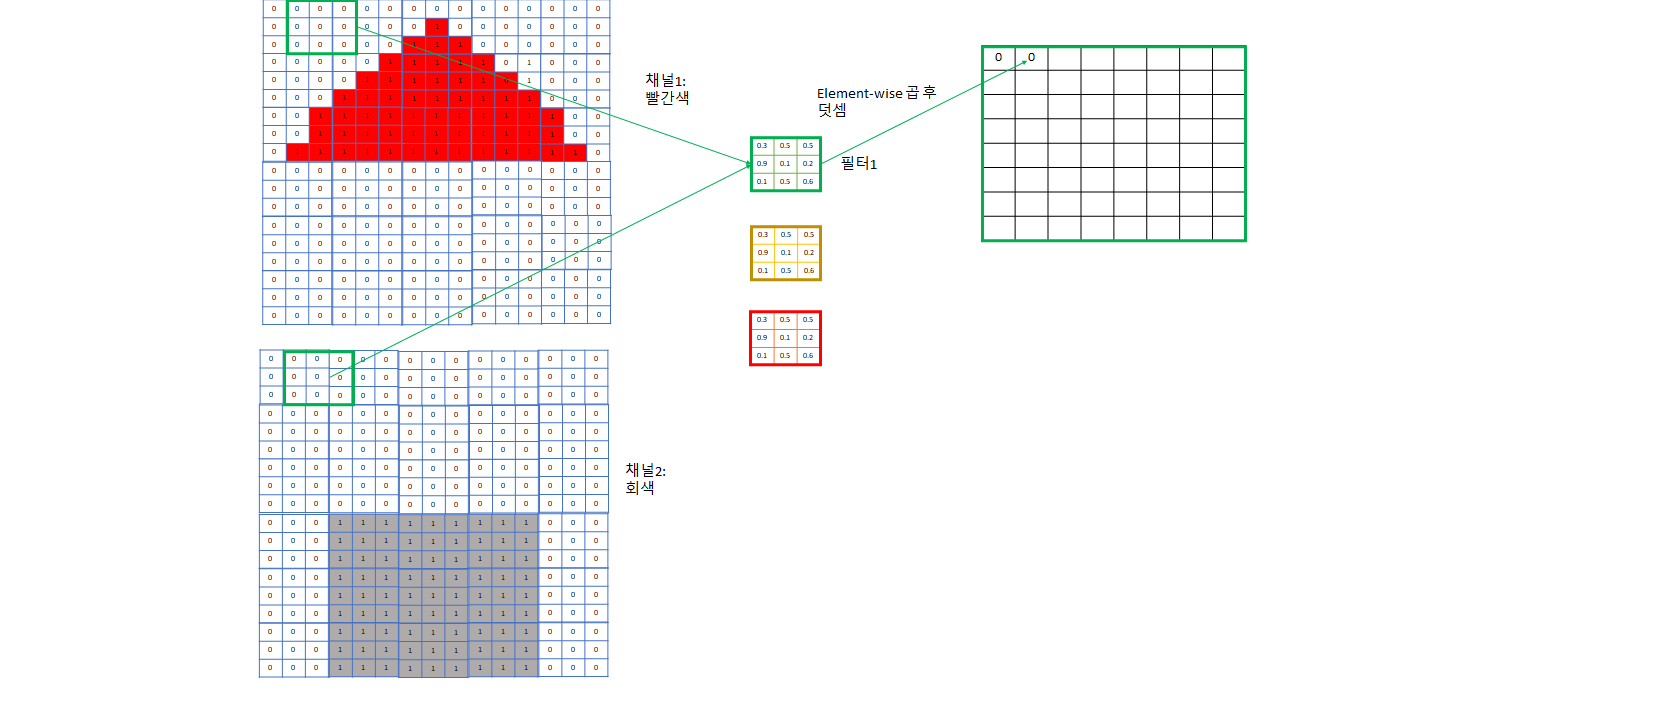
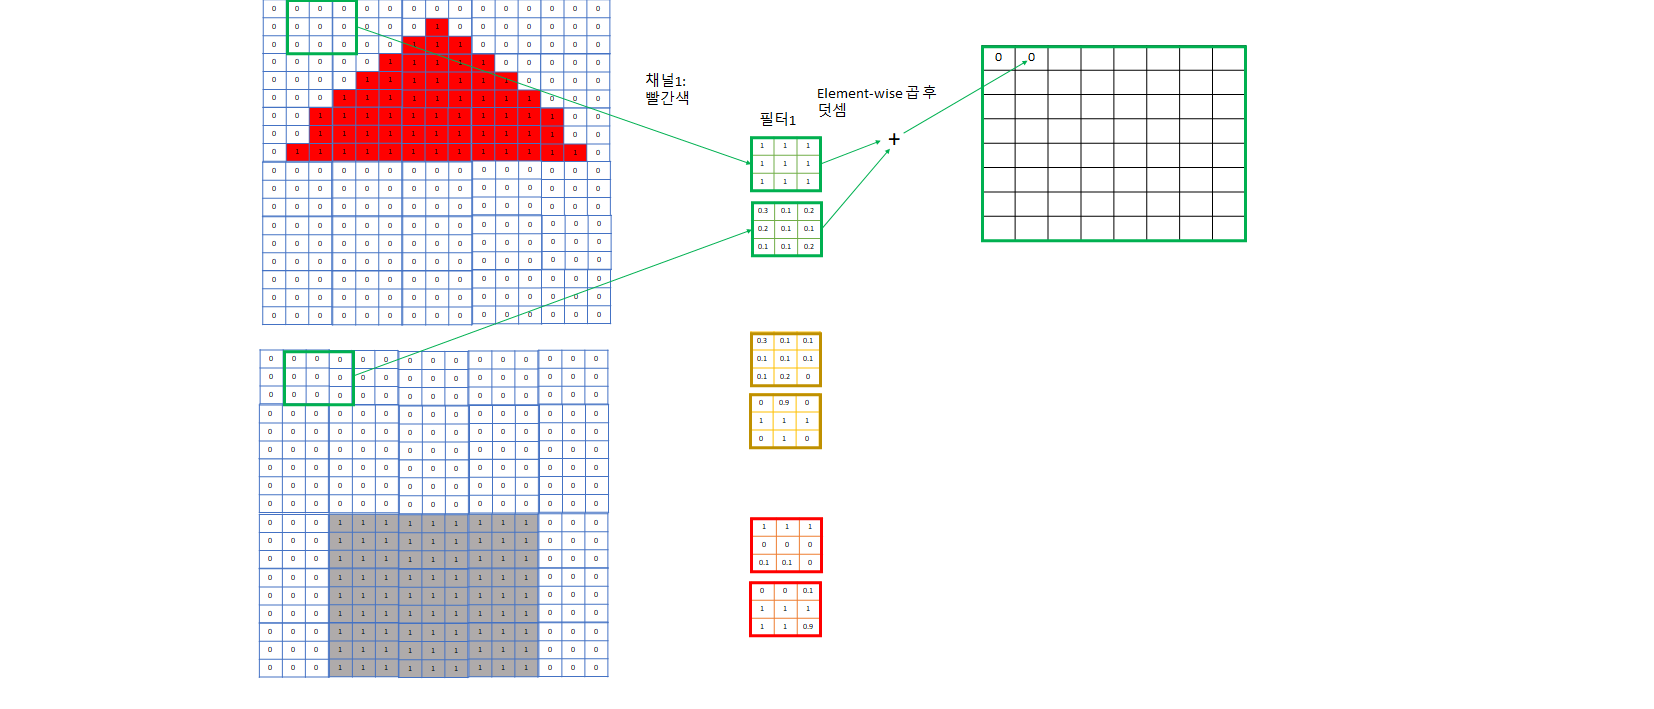
fixed practical cnn

diff --git a/personal_study/practicalcnn.md b/personal_study/practicalcnn.md
@@ -25,7 +25,14 @@ sort: 4
 
 ## 3. CNN의 기본
 1) 작동 방식:
-
+   * 컴퓨터가 인식하기 쉽게 **image는 한 개로 오지 않고 이를 컴퓨터가 인식하기 쉽게 어떤 특성을 기준으로 나눈 여러 개의 channel로 주어진다.**
+      * ex) RGB: R, G, B하나당 채널 한 개씩. 흑백같은 간단한 사진이면 한 개의 channel을 주기도 한다.
+      * 아래 예제에서는 그림의 간략화를 위해 빨간색 채널, 회색 채널로만 정리했고 파란색 문도 생략했다.
+   * 눈에 대응되는 부분이 아래 그림의 "필터"들로, 각 channel에 대해 다른 weight를 가지고 있고 이 weight들은 학습된다. 이들 또한 input image를 어떤 특정한 기준으로 filtering하여 각 필터는 자신이 정한 특성에 대한 값들을 추출하려 노력한다.
+      * 예제의 1번 필터는 빨간색 채널용 필터가 전부 1이므로 **3*3 빨간색 정사각형 특성을 찾는데 특화된 필터다.**
+      * 예제의 2번 필터는 회색용 필터가 + 모양으로 1이므로 **회색 십자 모양 특성을 찾는데 특화된 필터다.**
+      * 예제의 3번 필터는 아래쪽은 회색이다가 위는 빨간색인, **회색 벽과 빨간색 지붕 사이 boundary가 되는 영역을 찾는데 특화된 필터다**
+   * 이렇게 필터로 합성곱을 하면서 각 필터 집합마다 그 필터가 주로 보는 특성 위주로 채널이 한 개씩 생긴다.
 ![cnn1](../images/cnndiagram1.png)
 ![cnn2](../images/cnndiagram2.png)
 ![cnn3](../images/cnndiagram3.png)
@@ -35,10 +42,17 @@ sort: 4
 ![cnn7](../images/cnndiagram7.png)
 ![cnn8](../images/cnndiagram8.png)
 
-2) CNN의 Hyperparameter: **channel, kernel size, stride**
+1) CNN의 Hyperparameter: **channel, kernel size, stride, padding**
+   
 ![cnn9](../images/cnndiagram9.png)
 
-3) CNN의 변형인 Pool Layer: CNN의 변형으로 **filter 내에서 합성곱 대신 최대/평균 값을 구한다.**
+* padding: same/valid
+   * valid 를 사용하면 CNN을 적용할 때마다 image의 크기가 줄어들게 된다
+   * 이를 방지하기 위해 **data 주위를 0 padding으로 둘러싸서 output shape이 input shape과 같게 하는 방법이 same padding**
+![same_padding](../images/samepadding.png)
+
+1) CNN의 변형인 Pool Layer: CNN의 변형으로 **filter 내에서 합성곱 대신 최대/평균 값을 구한다.**
+   
 ![cnn10](../images/cnndiagram10.png)
 
 ## 4. CNN의 정석
@@ -56,7 +70,7 @@ sort: 4
       * ex) (5, 5) 크기의 kernel layer 한 개 대신 (3, 3)크기의 kernel layer 2개 사용
    * **Channel은 하위 layer는 크게, 상위 layer로 갈수록 작게 설정**
       * 하위 layer는 최대한 많은 low-level 특징을 수집하고, 상위 layer는 몇 개의 중요한 전체적 특징을 포착하게 하기 위함.
-   * **stride가 아니면 절대로 image크기가 바뀌지 않도록 valid padding을 사용한다.**  
+   * **stride는 1 또는 2를 사용하고, stride가 아니면 절대로 image크기가 바뀌지 않도록 same padding을 사용한다.**  
       * 이래야만 image크기가 layer이 지나도 유지되므로 Residual Block, Inception등 CNN의 여러 심화 기법들을 사용할 수 있다.
 
 2) CNN의 크기 및 깊이 설정
@@ -64,6 +78,7 @@ sort: 4
       * ex) 크기가 5 * 5의 image: 
       kernel size (3, 3)으로 구성하면 첫 번째 pixel은 최대 세 번째 pixel하고만 연결되고, 세 번째 pixel은 최대 마지막 pixel인 다섯번째 pixel까지 연결된다. 
       따라서 **한 layer을 더 추가하면 1 pixel과 5 pixel이 연결되므로 올바른 CNN구조의 최소 조건이 만족된다.**
+
       ![cnnsize1](../images/cnnsize1.png)
 
       ![cnnsize2](../images/cnnsize2.png)
@@ -76,7 +91,7 @@ sort: 4
 * 한쪽 변이 4배나 긴 직사각형 layer 
 * 마지막 CNN layer의 Channel은 Feature개수인 38과 비슷한 16-32정도로 설정 - 아래 layer들은 이보다 2배씩 큰 channel값 할당.
 * 크기가 7인 x축 feature는 크기가 3인 filter 3개를 사용하면 맞춰줄 수 있다.
-* 여기에 **y축은 x축보다 4배가 크므로 stride가 2인 CNN을 2번 사용해줘서 맞춘다.**
+* 여기에 **y축은 x축보다 5배가 크므로 stride가 2인 CNN을 2번 사용해줘서 맞춘다.**
 * 이러면 최소 연결 조건을 만족하므로 Flatten 후 Dense를 통해 결과를 얻는다.
   
 ```python
